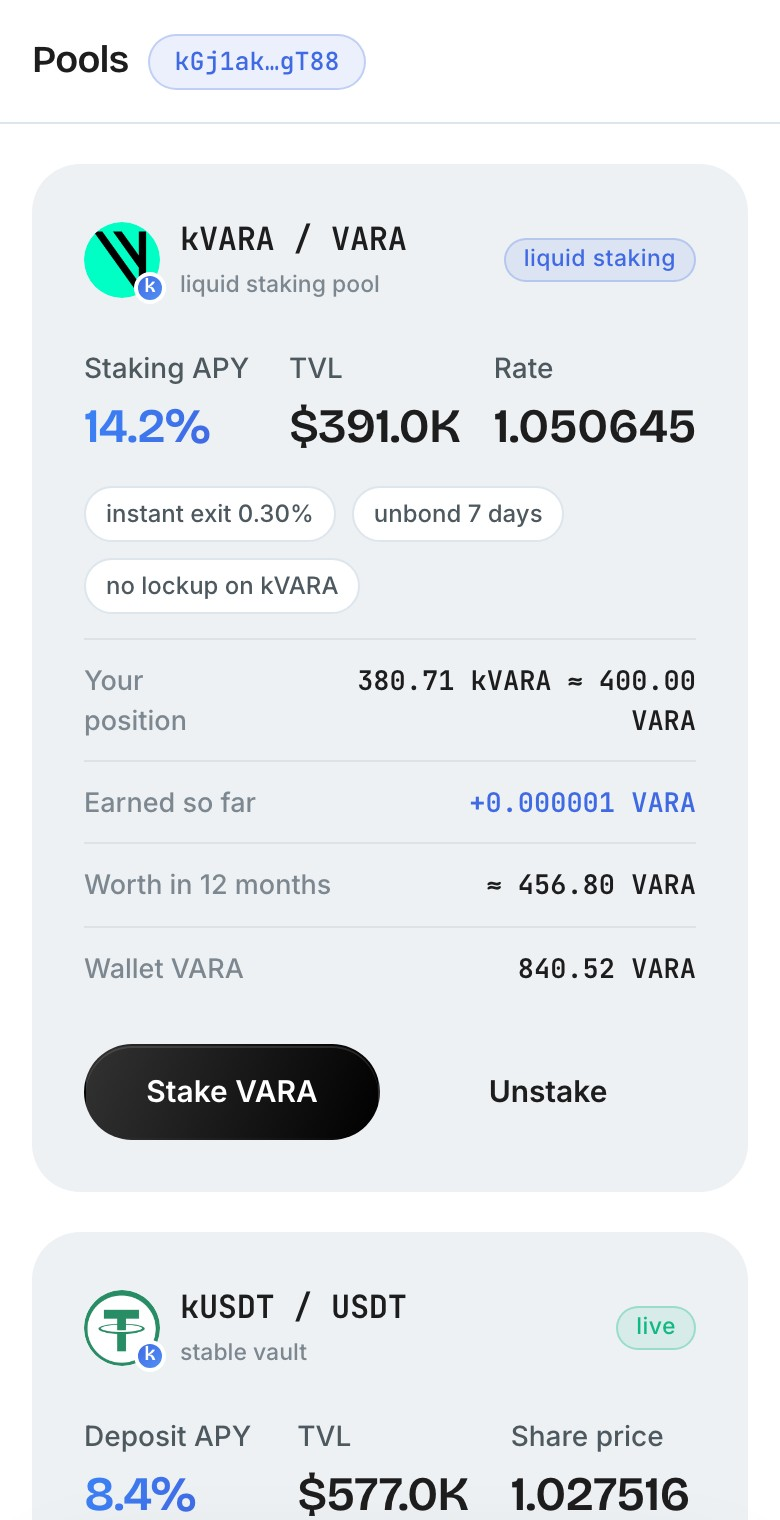
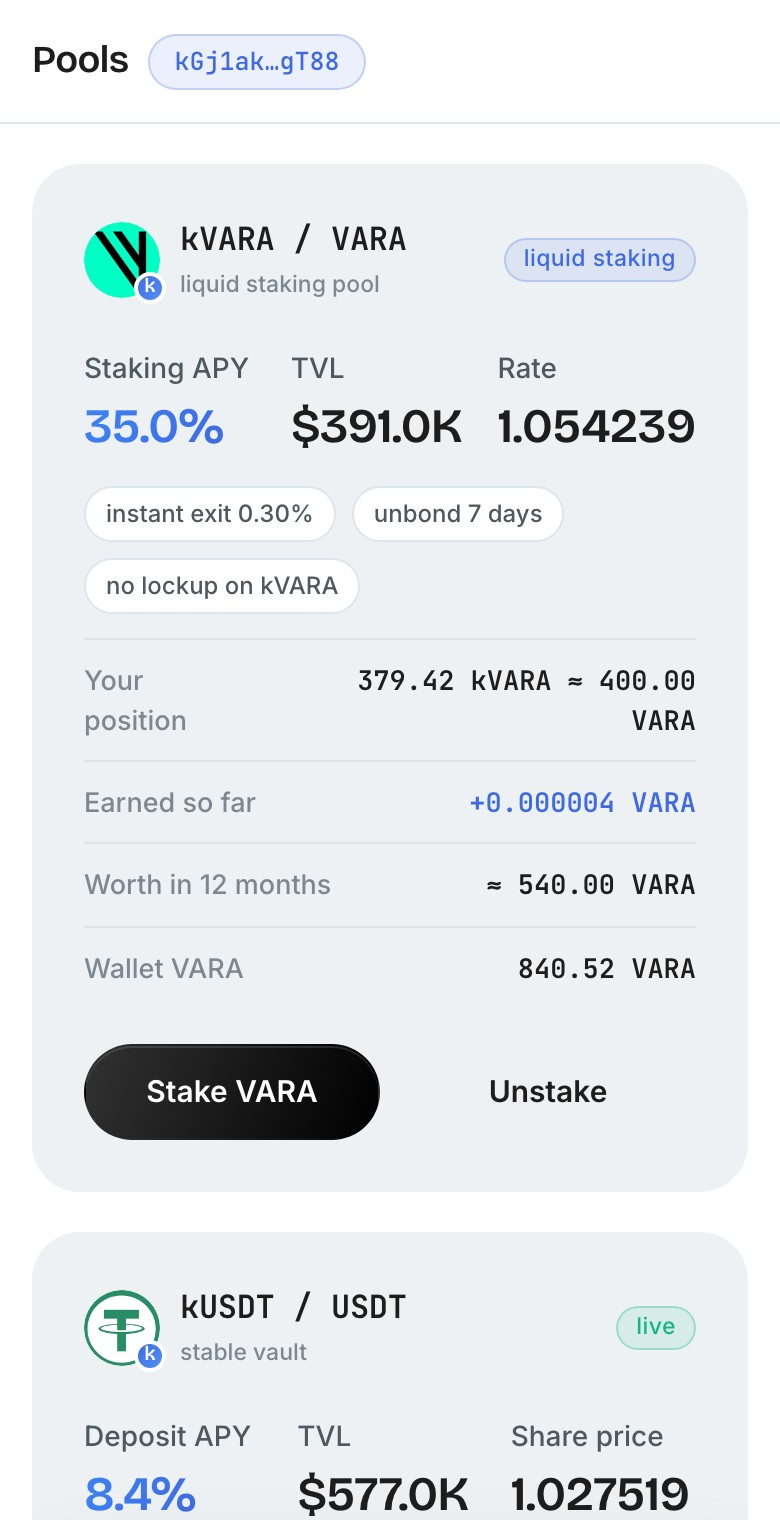
feat(sim): kVARA pool realises 35% APY

diff --git a/src/chain/mockAdapter.test.ts b/src/chain/mockAdapter.test.ts
@@ -96,7 +96,7 @@ describe('MockAdapter accrual', () => {
     const before = await clock.getStats();
     t = T0 + 365 * 24 * 3600 * 1000;
     const after = await clock.getStats();
-    expect(after.rate).toBe(before.rate + (before.rate * 1420n) / 10_000n);
+    expect(after.rate).toBe(before.rate + (before.rate * 3500n) / 10_000n);
     expect(after.vaults.USDT.rate).toBe(before.vaults.USDT.rate + (before.vaults.USDT.rate * 840n) / 10_000n);
     expect(after.at).toBe(t);
   });

diff --git a/src/chain/mockAdapter.ts b/src/chain/mockAdapter.ts
@@ -18,7 +18,8 @@ const ERA_MS = 12 * 60 * 60 * 1000;
 export const T0 = Date.UTC(2026, 8, 1);
 const BASE_ERA = 4182;
 const BASE_RATE = parseRate('1.0482');
-const APY_BPS = 1420n;
+/** kVARA compounds native staking rewards; the simulated pool realises ~35% APY. */
+const APY_BPS = 3500n;
 
 const VAULT_APY: Record<VaultAsset, bigint> = { USDT: 840n, USDC: 790n };
 const VAULT_BASE_PRICE: Record<VaultAsset, bigint> = { USDT: parseRate('1.0261'), USDC: parseRate('1.0193') };
